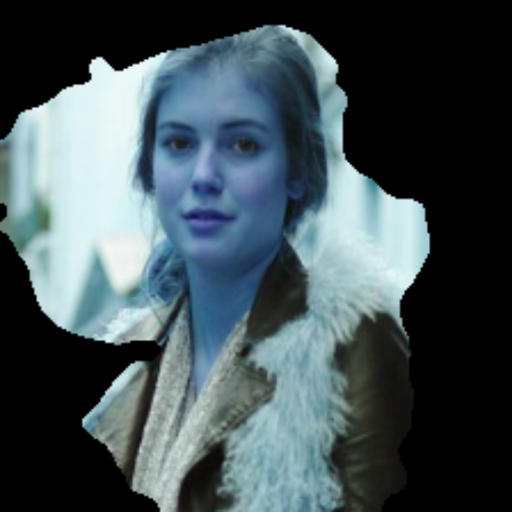
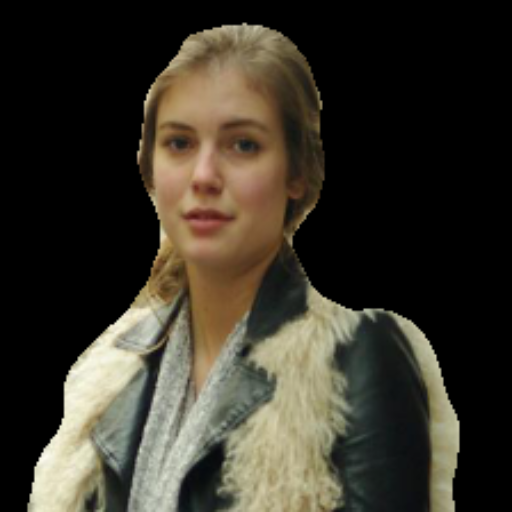
fix image prediction

diff --git a/datagenerator.py b/datagenerator.py
@@ -1,0 +1,236 @@
+import os
+import pandas as pd
+import numpy as np
+import cv2
+from imgaug.augmentables.segmaps import SegmentationMapsOnImage
+from sklearn.utils import shuffle
+
+IMG_HEIGHT = 224
+IMG_WIDTH = 224
+IMG_CHANNEL = 3
+CLASSES = ["Background", "Person"]
+N_CLASSES = 2
+
+
+class DataGenerator:
+    def __init__(self, 
+                 data_dir, 
+                 anno_paths, 
+                 augment_func,
+                 img_height=IMG_HEIGHT,
+                 img_width=IMG_WIDTH,
+                 img_channel=IMG_CHANNEL,
+                 batch_size=36,
+                 n_classes=N_CLASSES,
+                 augmentation=True,
+                 task="train"):
+        
+        self.data_dir = data_dir
+        self.anno_paths = anno_paths
+        self.augment_func = augment_func
+        self.batch_size = batch_size
+        self.task = task
+        self.current_index = 0
+#         self.current_test = 0
+        self.img_height = img_height
+        self.img_width = img_width
+        self.img_channel = img_channel
+        self.n_classes = n_classes
+        self.augmentation = augmentation
+        self.image_paths, self.label_paths = self.load_image_paths("input", "target")
+        
+    def load_image_paths(self, input_dir, target_dir):
+        image_paths = []
+        label_paths = []
+        
+        for anno_path in self.anno_paths:
+            anno_dir = os.path.dirname(anno_path)
+            df_file_names = pd.read_csv(anno_path, header=None)
+            file_names = df_file_names[0].values
+            
+            for fn in file_names:
+                if "DS_Store" in fn: continue
+                img_train_dir = os.path.join(anno_dir, input_dir)
+                img_label_dir = os.path.join(anno_dir, target_dir)
+                img_train_path = os.path.join(img_train_dir, fn)
+                img_label_path = os.path.join(img_label_dir, fn)
+        
+                image_paths.append(img_train_path)
+                label_paths.append(img_label_path)
+            
+        image_paths = np.array(image_paths)
+        label_paths = np.array(label_paths)
+
+        return image_paths, label_paths
+    
+    def get_n_examples(self):
+        return len(self.image_paths)
+        
+    def load_image(self, img_path):
+        image = cv2.imread(img_path, 1)
+        image = image[..., ::-1]
+#         print(len(np.unique(image[..., 0])))
+        return image
+
+    def load_images(self, image_paths):
+        images = []
+        preprocessors = [self.resize_img, self.mean_substraction]
+        
+        for img_path in image_paths:
+            image = self.load_image(img_path)
+            image = self.preprocessing(image, preprocessors=preprocessors)
+            images.append(image)
+        
+        images = np.array(images)
+        return images
+    
+    def load_labels(self, label_paths):
+        labels = []
+        
+        for lbl_path in label_paths:
+            label = self.load_image(lbl_path)
+            label = self.resize_img(label, interpolation=cv2.INTER_NEAREST)
+            label = label /255
+            label[label < 0.5] = 0
+            label[label >= 0.5] = 1
+            label = self.parse_label(label)
+            labels.append(label)
+        
+        labels = np.array(labels)
+        
+        return labels
+    
+    def parse_label(self, seg_image):
+        label = seg_image
+        label = label[:, :, 0]
+        seg = np.zeros((self.img_height, self.img_width, self.n_classes))
+        
+        for i in range(self.n_classes):
+            seg[:, :, i] = (label == i).astype(int)
+        
+        seg = np.reshape(seg, (-1, self.n_classes))
+        return seg
+    
+    def load_batch_pair_in_pair(self, img_paths, label_paths):
+        images = []
+        segs = []
+        preprocessors = [self.resize_img, self.mean_substraction]
+        
+        for i in range(len(img_paths)):
+            image = self.load_image(img_paths[i])
+#             image = self.preprocessing(image, preprocessors)
+            
+            seg = self.load_image(label_paths[i])
+#             seg = self.preprocessing(seg, [self.resize_img])
+#             print(seg.dtype)
+#             seg = seg.astype(np.uint8)
+#             seg = self.parse_label(seg)
+#             seg = np.argmax(seg, axis=-1).astype(np.int32)
+            segmap = SegmentationMapsOnImage(seg[:, :, 0], shape=image.shape, nb_classes=np.max(seg[:, :, 0]) + 1)
+            
+            if self.augmentation:
+                image, segmap = self.augment_func(image=image, segmentation_maps=segmap)
+            
+            seg[:, :, 0] = segmap.get_arr_int()
+            image = self.preprocessing(image, preprocessors)
+            
+#             seg = self.preprocessing(seg, [self.resize_img])
+            seg = self.resize_img(seg, interpolation=cv2.INTER_NEAREST)
+            seg = seg /255
+            seg[seg > 0.5] = 1
+            seg[seg <= 0.5] = 0
+            seg = self.parse_label(seg)
+            
+            images.append(image)
+            segs.append(seg)
+        
+        return np.array(images), np.array(segs)
+    
+    def show_sample_image(self):
+        idx = np.random.choice(len(self.image_paths), 1)[0]
+        img_path = self.image_paths[idx]
+        seg_path = self.label_paths[idx]
+        
+        img = self.load_image(img_path)
+        seg = self.load_image(seg_path)
+#         segmap = SegmentationMapsOnImage(seg[..., 0], shape=img.shape)
+        segmap = SegmentationMapsOnImage(seg, shape=img.shape)
+        
+        img_aug, seg_aug = self.augment_func(image=img, segmentation_maps=segmap)
+        
+        ia.imshow(np.hstack([
+            img[..., ::-1],
+            seg
+        ]))
+        
+#         seg[..., 0] = seg_aug.get_arr_int()
+        seg = seg_aug.get_arr_int()
+#         print(np.nonzero(seg[..., 0]))
+
+#         non_index = np.nonzero(seg[..., 0])
+#         for i in range(len(non_index[0])):
+#             print(seg[..., 0][non_index[0][i], non_index[1][i]])
+
+        ia.imshow(np.hstack([
+            img_aug[..., ::-1],
+            seg
+        ]))
+        
+        seg = seg /255
+        seg[seg < 0.5] = 0
+        seg[seg >= 0.5] = 1
+        
+        ia.imshow(np.hstack([
+            img_aug[..., ::-1],
+            seg
+        ]))
+    
+    def resize_img(self, image, interpolation=cv2.INTER_AREA):
+#         h, w = image.shape[:2]
+#         print(h, w)
+#         p_h, p_w = 0, 0
+        
+#         if h>w:
+#             image = imutils.resize(image, width=self.img_width)
+#             p_h = int((image.shape[0] - self.img_height) / 2)
+#         else:
+#             image = imutils.resize(image, height=self.img_height)
+#             p_w = int((image.shape[1] - self.img_width) / 2)
+        
+#         image = image[p_w:image.shape[1]-p_w, p_h: image.shape[0]-p_h]
+        image = cv2.resize(image, (self.img_height, self.img_width), interpolation=interpolation)
+        return image
+    
+    def mean_substraction(self, image, mean=[103.94, 116.78, 123.68], image_val=0.017):
+        image = image.astype("float32")
+        image[:, :, 0] -= mean[0]
+        image[:, :, 1] -= mean[1]
+        image[:, :, 2] -= mean[2]
+        image *= image_val
+        image = image[..., ::-1]
+        
+        return image
+    
+    def preprocessing(self, image, preprocessors):
+        for p in preprocessors:
+            image = p(image)
+        
+        return image
+    
+    def load_batch(self):
+        if self.current_index + self.batch_size >= len(self.image_paths):
+            self.current_index = 0
+            self.image_paths, self.label_paths = shuffle(self.image_paths, self.label_paths, random_state=42)
+            
+        img_batch_paths = self.image_paths[self.current_index:self.current_index+self.batch_size]
+        seg_batch_paths = self.label_paths[self.current_index:self.current_index+self.batch_size]
+        self.current_index += self.batch_size
+        inputs, segs = self.load_batch_pair_in_pair(img_batch_paths, seg_batch_paths)
+        
+        return inputs, segs
+    
+    def generate(self):
+        while True:
+            images, labels = self.load_batch()
+            
+            yield (images, labels)

diff --git a/dataaugentation.py b/dataaugentation.py
@@ -1,0 +1,59 @@
+from imgaug import augmenters as iaa
+
+class DataAugmentation:
+    def __init__(self):
+        self.IMAGE_AUGMENTATION_SEQUENCE = None
+        self.IMAGE_AUGMENTATION_NUM_TRIES = 10
+        self.loaded_augmentation_name = ""
+    
+        self.augmentation_functions = {
+            "aug_all": self._load_augmentation_aug_all,
+            "aug_geometric": self._load_augmentation_aug_geometric,
+            "aug_non_geometric": self._load_augmentation_aug_non_geometric,
+        }
+    
+    def _load_augmentation_aug_geometric(self):
+        return iaa.Sequential([
+            iaa.Sometimes(0.5, iaa.Fliplr()),
+            iaa.Sometimes(0.5, iaa.Rotate((-45, 45))),
+            iaa.Sometimes(0.5, iaa.Affine(
+                scale={"x": (0.5, 1.5), "y": (0.5, 1.5)},
+                order=[0, 1],
+                mode='constant',
+                cval=(0, 255),
+            )),
+            iaa.Sometimes(0.5, iaa.Affine(
+                translate_percent={"x": (-0.25, 0.25), "y": (-0.25, 0.25)},
+                order=[0, 1],
+                mode='constant',
+                cval=(0, 255),
+            )),
+        ])
+    
+    def _load_augmentation_aug_non_geometric(self):
+        return iaa.Sequential([
+            iaa.Sometimes(0.5, iaa.AdditiveGaussianNoise(loc=0, scale=(0.0, 0.05*255), per_channel=0.5)),
+            iaa.Sometimes(0.5, iaa.OneOf([
+                iaa.GaussianBlur(sigma=(0.0, 3.0)),
+                iaa.GaussianBlur(sigma=(0.0, 5.0))
+            ])),
+            iaa.Sometimes(0.5, iaa.MultiplyAndAddToBrightness(mul=(0.4, 1.7))),
+            iaa.Sometimes(0.5, iaa.GammaContrast((0.4, 1.7))),
+            iaa.Sometimes(0.5, iaa.Multiply((0.4, 1.7), per_channel=0.5)),
+            iaa.Sometimes(0.5, iaa.MultiplyHue((0.4, 1.7))),
+            iaa.Sometimes(0.5, iaa.MultiplyHueAndSaturation((0.4, 1.7), per_channel=True)),
+            iaa.Sometimes(0.5, iaa.LinearContrast((0.4, 1.7), per_channel=0.5))
+        ])
+    
+    def _load_augmentation_aug_all(self):
+        return iaa.OneOf([
+            iaa.Sometimes(0.5, self._load_augmentation_aug_geometric()),
+            iaa.Sometimes(0.5, self._load_augmentation_aug_non_geometric())
+        ])
+    
+    def _load_aug_by_name(self, aug_name="aug_all"):
+        if not len(self.loaded_augmentation_name):
+            self.loaded_augmentation_name = aug_name
+            self.IMAGE_AUGMENTATION_SEQUENCE = self.augmentation_functions[aug_name]()
+            
+        return self.IMAGE_AUGMENTATION_SEQUENCE

diff --git a/server.py b/server.py
@@ -30,8 +30,8 @@ import imgaug as ia
 from imgaug import augmenters as iaa
 from keras.callbacks import ModelCheckpoint, LearningRateScheduler, BaseLogger
 from imgaug.augmentables.segmaps import SegmentationMapsOnImage
-
-
+from datagenerator import DataGenerator
+from dataaugentation import DataAugmentation
 # ------------------ General config --------------------- #
 
 warnings.filterwarnings("ignore")
@@ -53,6 +53,9 @@ IMG_HEIGHT = 224
 IMG_WIDTH = 224
 IMG_CHANNEL = 3
 CLASSES = ["Background", "Person"]
+DATA_DIR = 'Nukki'
+VAL_ANNO_FILE1 = os.path.join(DATA_DIR, "baidu_V1/val.txt")
+VAL_ANNO_FILE2 = os.path.join(DATA_DIR, "baidu_V2/val.txt")
 N_CLASSES = 2
 TEST_IMAGE_PATH = os.path.join(BASE_DIR, 'image_test', '1.png')
 OUTPUT_IMAGE_PATH = os.path.join(BASE_DIR, 'image_test', 'output.png')
@@ -65,6 +68,10 @@ sinet = SiNet(IMG_HEIGHT, IMG_WIDTH, IMG_CHANNEL, N_CLASSES)
 model = sinet.build_decoder()
 model.load_weights(WEIGHT_FILE_PATH)
 
+# data loader
+data_aug = DataAugmentation()
+aug = data_aug._load_aug_by_name()
+val_datagen = DataGenerator(DATA_DIR, [VAL_ANNO_FILE1, VAL_ANNO_FILE2], aug, batch_size=24)
 
 # ------------------ API --------------------- #
 
@@ -78,9 +85,13 @@ def predict():
 
 def test():
     # Get and preprocess image
-    img_origin = cv2.imread(TEST_IMAGE_PATH)
+    img_origin = val_datagen.load_image(TEST_IMAGE_PATH)
+    preprocessors = [val_datagen.resize_img, val_datagen.mean_substraction]
+
     img_resize = cv2.resize(img_origin, (224, 224))[..., ::-1]
-    img = np.expand_dims(img_resize, axis=0)
+    img_preprocess = val_datagen.preprocessing(img_origin, preprocessors=preprocessors)
+
+    img = np.expand_dims(img_preprocess, axis=0)
 
     # Predict
     prediction = model.predict(img)
